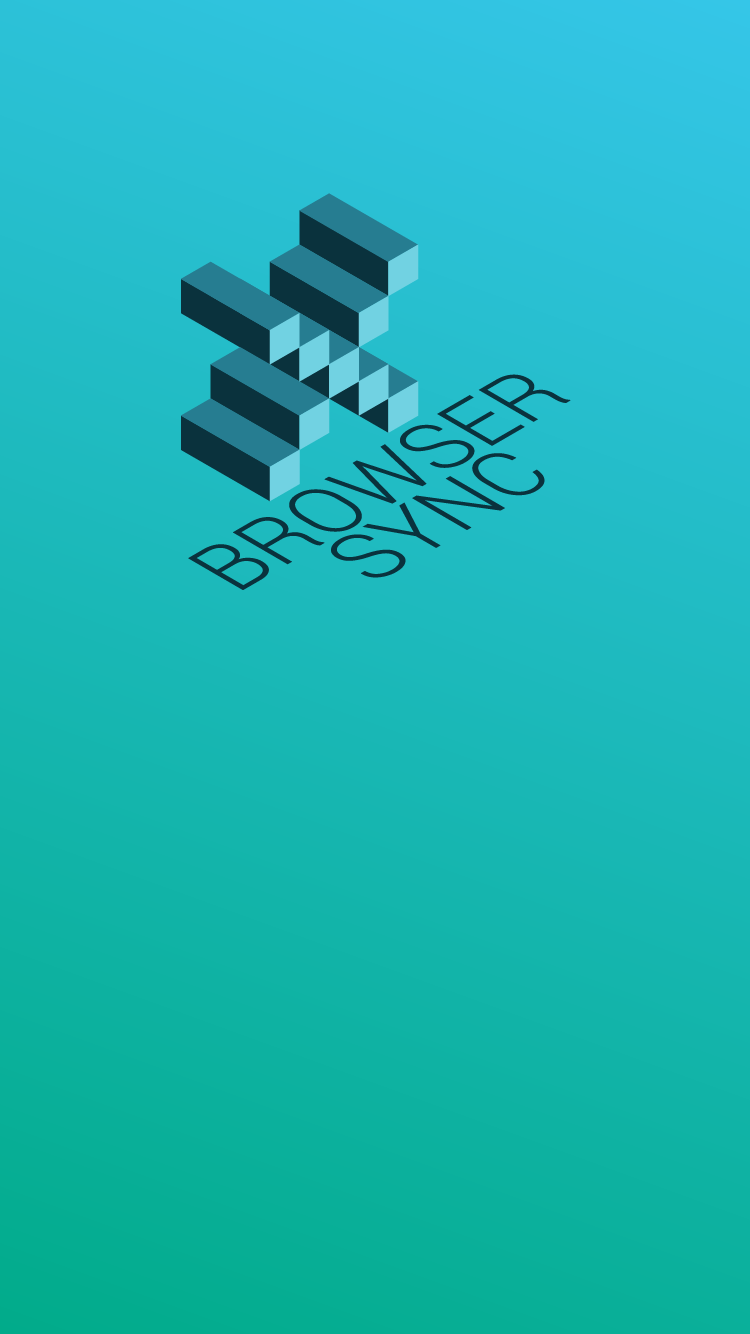
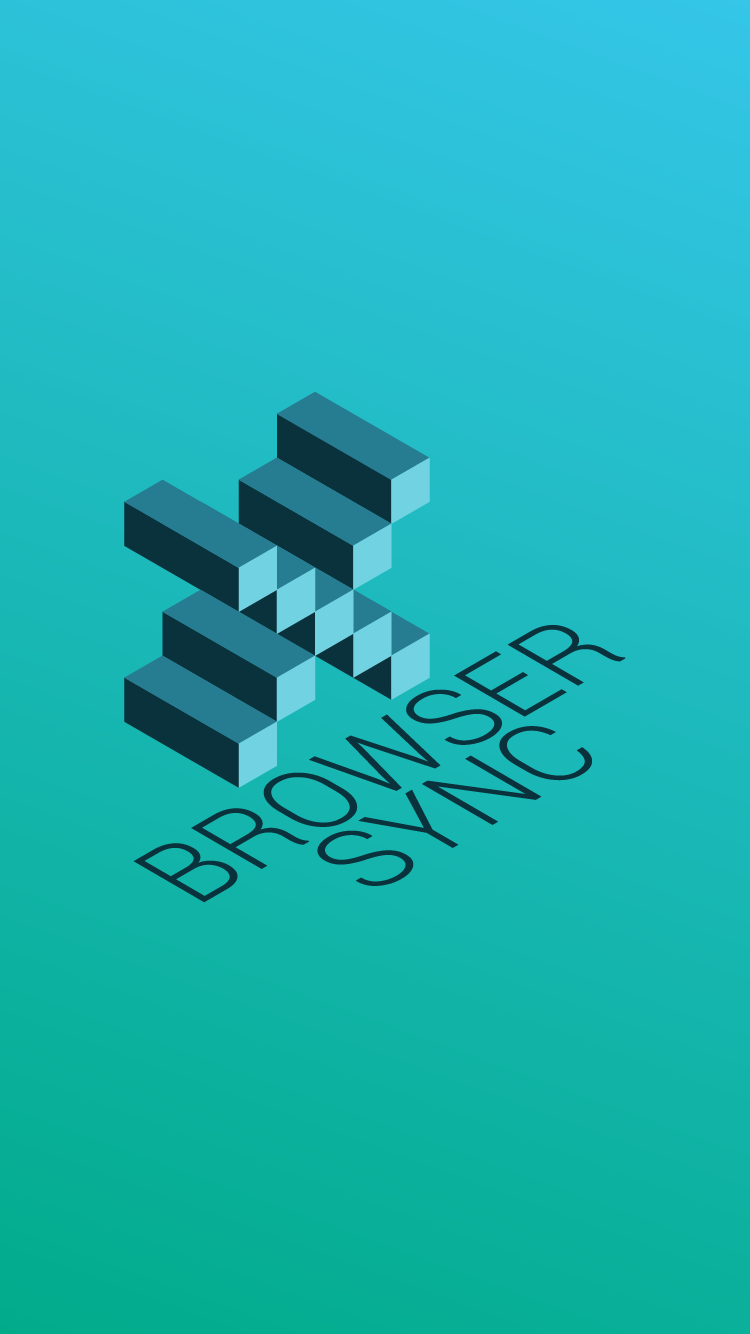
Updated: Help text. Updated: (Android/iOS) Splash screen images.

Changed region(s): [[0.1533, 0.1229, 0.7973, 0.6762], [0.7053, 0.3381, 0.736, 0.3688]]

diff --git a/platform/mobileapps/js/platformImplementation.js b/platform/mobileapps/js/platformImplementation.js
@@ -50,7 +50,7 @@ xBrowserSync.App.PlatformImplementation = function($http, $interval, $q, $timeou
 			"message": "<h4>Syncing for the first time</h4><p>Your data is encrypted before it is synced so you’ll need to enter an encryption password first. Make it strong but also memorable, if you forget it you won’t be able to retrieve your synced data (and there are no reminders!).</p><p>Then simply click the Sync button and that’s it — you’re synced and ready to start adding bookmarks.</p>"
 		},
 		"login_introPanel3_Message": {
-			"message": "<h4>Already synced (got an ID)</h4><p>When you create a new sync you are given a unique xBrowserSync ID which you can use along with your password to sync your data on other devices.</p><p>Once synced you can view your ID in the Settings panel along with a handy QR code to scan when syncing on mobile devices.</p>"
+			"message": "<h4>Already synced (got an ID)</h4><p>When you create a new sync you are given a unique xBrowserSync ID which you can use along with your password to sync your data on other devices.</p><p>Once synced you can view your ID in the Settings panel. Tap it to reveal a handy QR code to scan when syncing on mobile devices.</p>"
 		},
 		"login_introPanel4_Message": {
 			"message": "<h4>Syncing to another service</h4><p>By default your data is synced to the official xBrowserSync service, though anyone can <a href='https://github.com/xBrowserSync/API' class='new-tab'>run their own xBrowserSync service</a>, either for private use (for ultimate security and privacy) or to make available for public use so that more people can enjoy xBrowserSync.</p><p>Check the available <a href='https://www.xbrowsersync.org/#status' class='new-tab'>xBrowserSync services</a> and switch services in the Settings panel.</p>"
@@ -59,10 +59,10 @@ xBrowserSync.App.PlatformImplementation = function($http, $interval, $q, $timeou
 			"message": "<h4>New service, new ID</h4><p>Your xBrowserSync ID will only work with the service on which it was first synced.</p><p>Whenever you change services you must create a new sync and receive a new ID. Don’t worry, it’s easy to move your synced data by backing it up using the former service and simply restoring it on the latter.</p>"
 		},
 		"login_introPanel6_Message": {
-			"message": "<h4>Searching your bookmarks</h4><p>Once synced, your bookmarks are displayed in chronological order when you open xBrowserSync. Searching is as easy as typing some keywords or a URL in the search box.</p><p>Long pressing on a bookmark will allow you to directly share, modify or delete the bookmark.</p>"
+			"message": "<h4>Searching your bookmarks</h4><p>Once synced, your bookmarks are displayed in chronological order when you open xBrowserSync. Type some keywords or a URL in the search box to search your bookmarks.</p><p>Long pressing on a bookmark will allow you to directly share, modify or delete the bookmark.</p>"
 		},
 		"login_introPanel7_Message": {
-			"message": "<h4>Adding a bookmark</h4><p>Add bookmarks easily by sharing to xBrowserSync from any apps that share URLs such as browsers, YouTube, Spotify and many more.</p><p>The bookmark’s properties will be automatically fetched for you, otherwise add them manually to ensure better search results.</p>"
+			"message": "<h4>Adding a bookmark</h4><p>Add bookmarks easily by sharing to xBrowserSync from any apps that share URLs such as browsers, YouTube, Spotify and many more.</p><p>The bookmark’s properties will be fetched for you, otherwise add a description and some tags to ensure better search results.</p>"
 		},
 		"login_introPanel8_Message": {
 			"message": "<h4>Remember to back up</h4><p>Nothing in life is 100% certain (especially web servers) so please look after your data and make sure to take backups.</p><p>You can do this easily in the Settings panel, you can back up your unencrypted data to a local file which can then restored at a later date should you need to.</p>"
